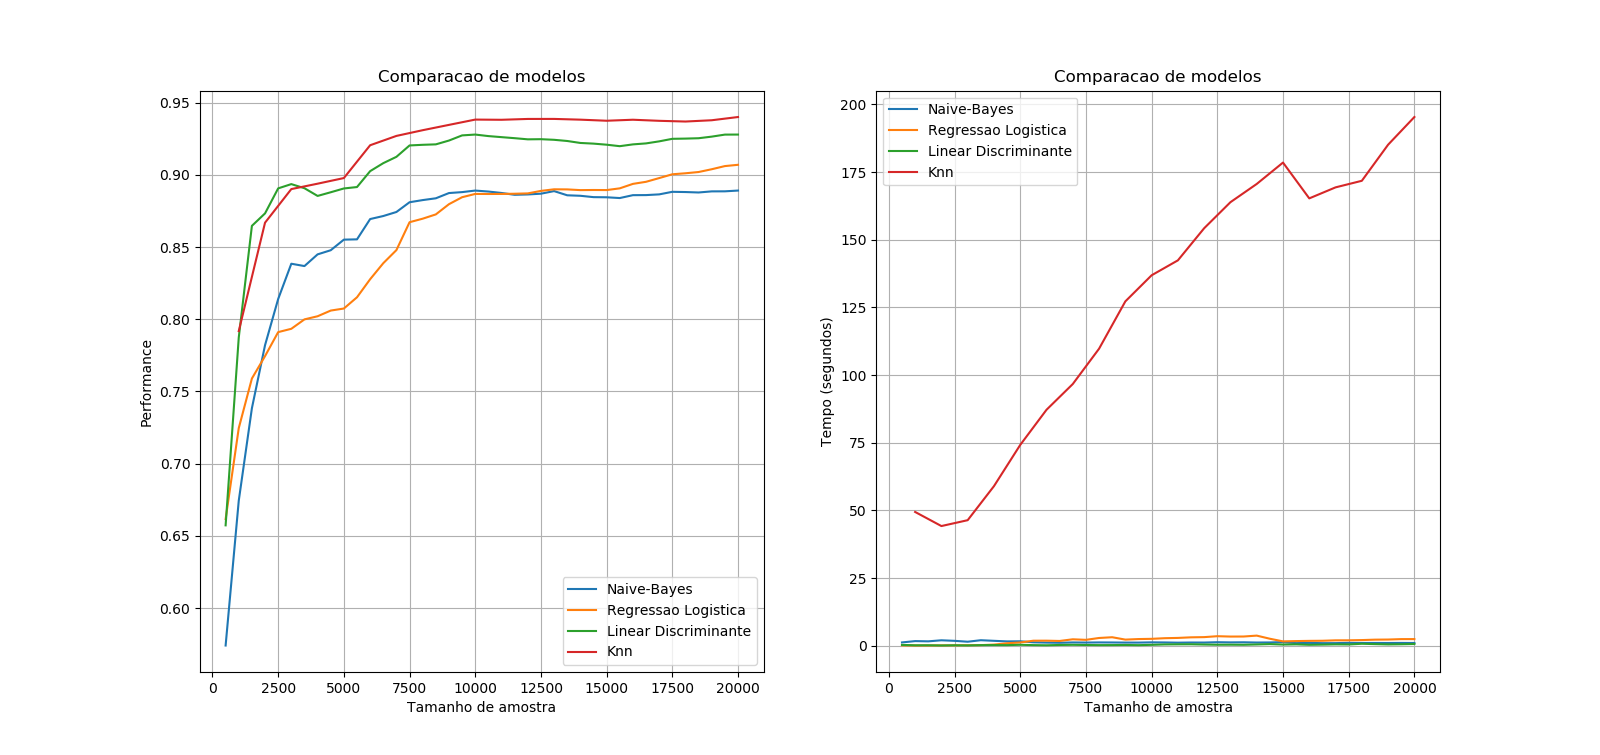
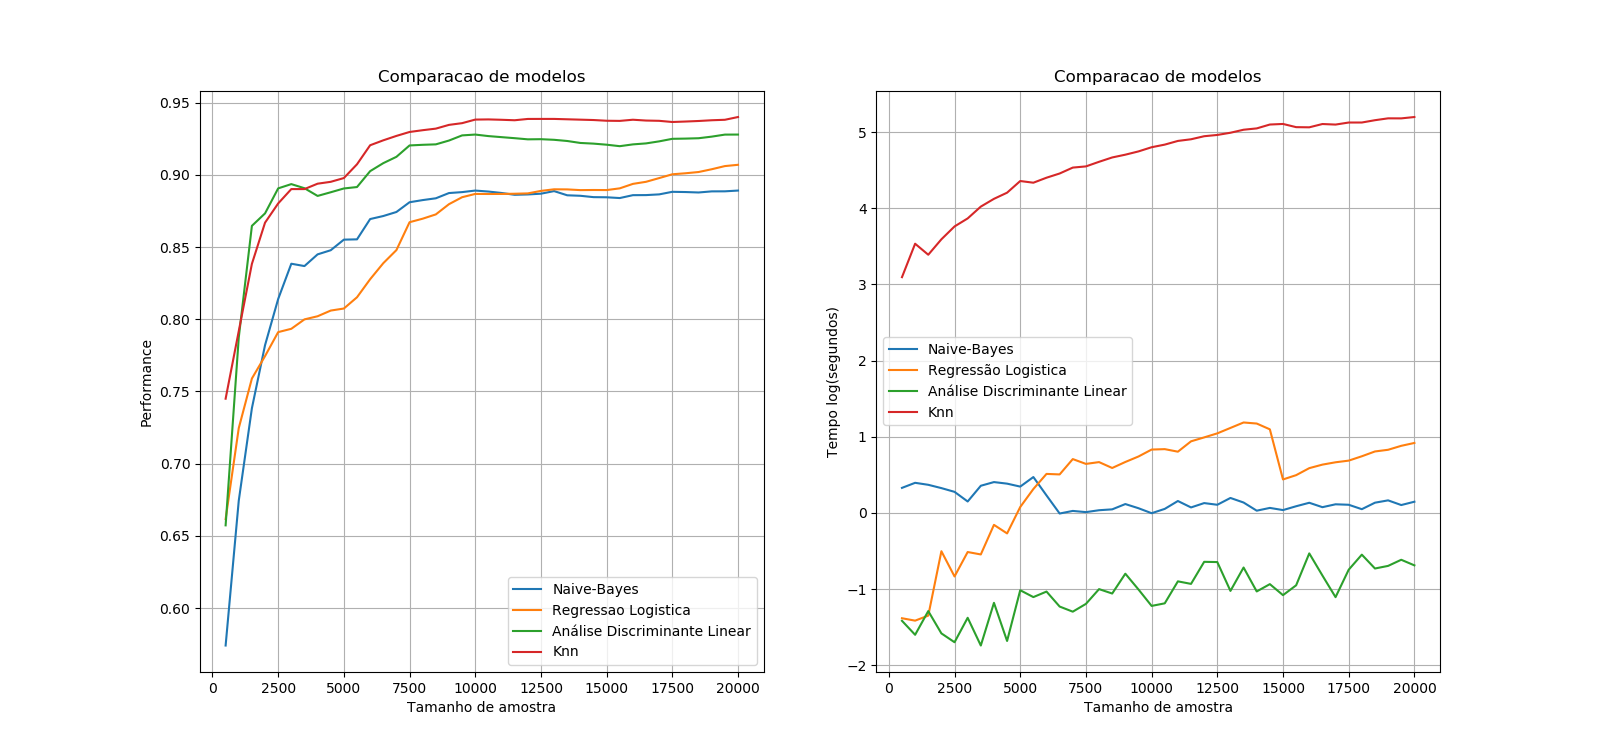
entrega lab1 e lab2

diff --git a/2semestre/machine_learning/luis/aula02/lab2/analise.py b/2semestre/machine_learning/luis/aula02/lab2/analise.py
@@ -17,7 +17,7 @@ plt.plot( lag_500, nb['performance'] )
 plt.plot( lag_500, lg['performance'] )
 plt.plot( lag_500, lda['performance'] )  
 plt.plot( lag_500,knn['performance'] ) 
-plt.legend( ['Naive-Bayes', "Regressao Logistica", "Linear Discriminante", 'Knn'], loc='best' )
+plt.legend( ['Naive-Bayes', "Regressao Logistica", "Análise Discriminante Linear", 'Knn'], loc='best' )
 plt.title( "Comparacao de modelos" )
 plt.xlabel("Tamanho de amostra")
 plt.ylabel("Performance")
@@ -35,5 +35,4 @@ plt.ylabel("Tempo log(segundos)")
 plt.grid(True)
 
 plt.show()
-
 
